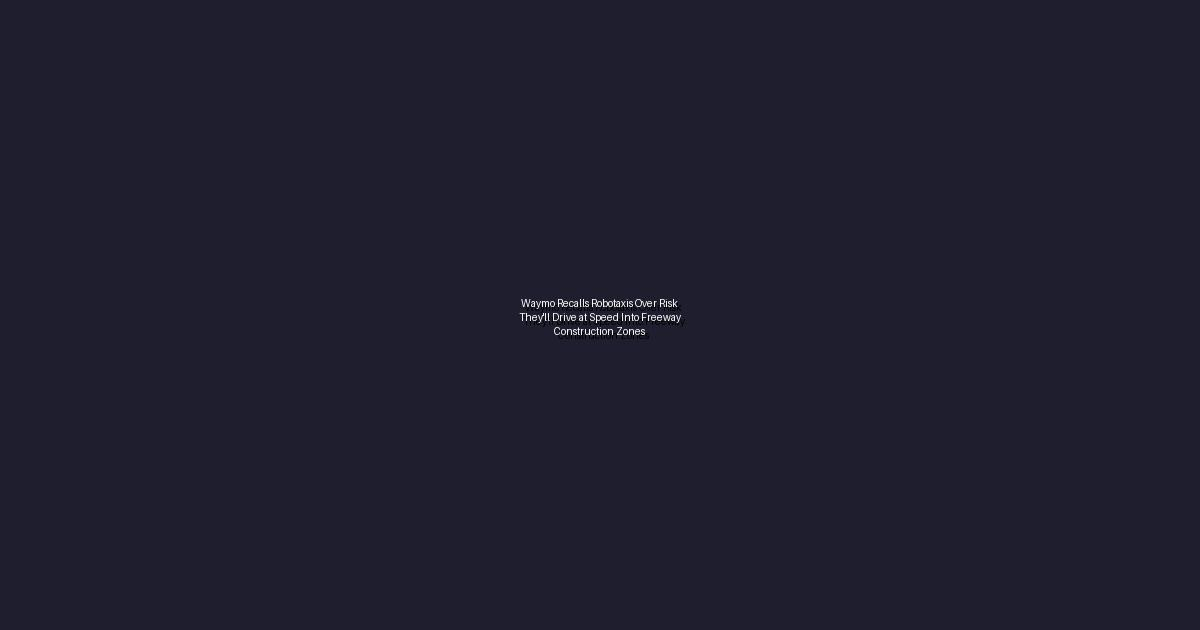
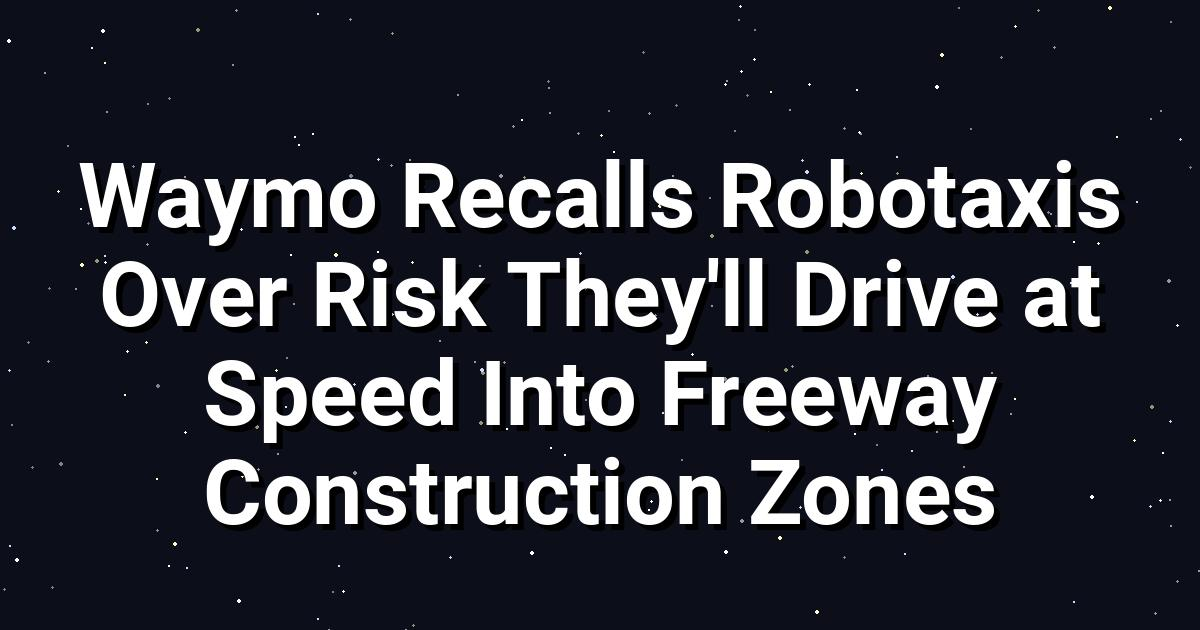
Published article batch and updated queue

diff --git a/content/posts/samsung-the-frame-pro-2026-review-pricey-but-worth-it.md b/content/posts/samsung-the-frame-pro-2026-review-pricey-but-worth-it.md
@@ -1,74 +1,87 @@
 ---
-title: " "Samsung The Frame Pro 2026: Worth the Hype?""
-date: 2026-06-18T13:29:09.831551+00:00
+title: " \'Frame Pro\'"
+date: 2026-06-20T03:28:28.846591+00:00
 draft: false
 images: ["images/samsung-the-frame-pro-2026-review-pricey-but-worth-it.jpg"]
 thumbnail: "images/samsung-the-frame-pro-2026-review-pricey-but-worth-it.jpg"
-description: "Discover the Samsung The Frame Pro 2026's cinematic features and impressive specs, but is it worth the high price tag?"
+description: " \'Discover the latest Frame Pro 2026 with AI audio, picture tuning, and anti-glare coating for enhanced viewing experience\'"
 categories: ["Hardware"]
-tags: ["Samsung", "The Frame Pro 2026", "AI Audio", "Picture Tuning", "Anti-Glare Coating"]
+tags: ["Artificial Intelligence", "Display Technology", "Gaming Monitor"]
 ---
 
-## Samsung The Frame Pro 2026 Review: Pricey But Worth It
+## Introduction to the Frame Pro 2026
+The Frame Pro 2026 is the latest iteration of Samsung's innovative display technology, designed to provide an unparalleled viewing experience. With the integration of AI audio and picture tuning, along with a new anti-glare coating, this device is set to revolutionize the way we interact with visual content. In this article, we will delve into the technical aspects of the Frame Pro 2026, exploring its features, benefits, and potential applications.
 
-Are you in the market for a high-end television that provides a cinematic experience like no other? Look no further than the Samsung The Frame Pro 2026. With its cutting-edge features and impressive specs, this TV is sure to turn heads. But is it worth the hefty price tag? In this review, we'll delve into the details of the Samsung The Frame Pro 2026 and help you decide whether it's the right choice for you.
+### Key Features of the Frame Pro 2026
+Some of the key features of the Frame Pro 2026 include:
+* AI-powered audio and picture tuning for optimized sound and image quality
+* New anti-glare coating for reduced reflections and improved visibility
+* Enhanced color accuracy and contrast ratio for a more immersive experience
+* Support for various display modes, including gaming, movie, and art modes
+* Integration with smart home devices for seamless control and connectivity
 
-## Impressive Picture Quality
+## Technical Overview of the Frame Pro 2026
+The Frame Pro 2026 boasts an impressive array of technical specifications, including:
+* A high-resolution display with a fast refresh rate for smooth motion and reduced blur
+* Advanced audio technology with support for multiple sound formats and channels
+* A powerful processor for efficient performance and quick response times
+* Ample storage capacity for storing and accessing various types of content
+* Connectivity options such as Wi-Fi, Bluetooth, and USB for easy integration with other devices
 
-The Samsung The Frame Pro 2026 boasts a stunning 4K resolution, making it perfect for watching your favorite movies and TV shows. But what really sets it apart is its AI-powered picture tuning feature. This technology uses machine learning algorithms to analyze the content being displayed and adjusts the picture settings accordingly. The result is a more immersive viewing experience that's tailored to your specific needs.
+### Display Technology
+The display technology used in the Frame Pro 2026 is one of its most notable features. With a high-resolution panel and advanced color management, this device is capable of producing vibrant and accurate colors. The new anti-glare coating helps to reduce reflections and improve visibility, making it ideal for use in a variety of environments.
 
-### Key Picture Features
+### AI-Powered Audio and Picture Tuning
+The Frame Pro 2026 features AI-powered audio and picture tuning, which work in tandem to provide an optimized viewing experience. The AI technology analyzes the content being displayed and adjusts the sound and image settings accordingly, resulting in enhanced color accuracy, contrast ratio, and sound quality.
 
-* **AI-powered picture tuning**: Machine learning algorithms adjust picture settings for an optimized viewing experience.
-* **High dynamic range (HDR)**: Enjoy a wider range of colors and contrast levels for a more immersive experience.
-* **4K resolution**: Watch your favorite content in stunning detail.
+## Benefits of the Frame Pro 2026
+The Frame Pro 2026 offers a range of benefits, including:
+* Enhanced viewing experience with improved color accuracy and contrast ratio
+* Optimized sound quality with AI-powered audio tuning
+* Reduced reflections and improved visibility with the new anti-glare coating
+* Seamless integration with smart home devices for easy control and connectivity
+* Support for various display modes, including gaming, movie, and art modes
 
-## Enhanced Audio Experience
+### Gaming Performance
+The Frame Pro 2026 is an excellent choice for gamers, with its fast refresh rate, low input lag, and support for various display modes. The AI-powered audio and picture tuning also help to enhance the gaming experience, providing more immersive and engaging gameplay.
 
-The Samsung The Frame Pro 2026 also features an impressive AI-powered audio system. This technology uses machine learning algorithms to analyze the content being played and adjusts the audio settings accordingly. The result is a more immersive audio experience that's tailored to your specific needs.
+### Movie and Art Modes
+The Frame Pro 2026 also features movie and art modes, which are designed to provide an optimized viewing experience for these types of content. With enhanced color accuracy and contrast ratio, as well as optimized sound quality, this device is ideal for watching movies or viewing artwork.
 
-### Key Audio Features
+## Potential Applications of the Frame Pro 2026
+The Frame Pro 2026 has a range of potential applications, including:
+* Home entertainment systems
+* Gaming consoles
+* Smart home devices
+* Art galleries and museums
+* Commercial display systems
 
-* **AI-powered audio**: Machine learning algorithms adjust audio settings for an optimized listening experience.
-* **Dolby Atmos**: Enjoy 3D audio that puts you right in the middle of the action.
-* **Wireless audio connectivity**: Connect your favorite speakers or headphones for a hassle-free audio experience.
+### Home Entertainment Systems
+The Frame Pro 2026 is an excellent choice for home entertainment systems, with its enhanced viewing experience and optimized sound quality. It can be easily integrated with other devices, such as soundbars and gaming consoles, to create a comprehensive entertainment system.
 
-## Anti-Glare Coating
+### Gaming Consoles
+The Frame Pro 2026 is also an excellent choice for gaming consoles, with its fast refresh rate, low input lag, and support for various display modes. It can be easily connected to gaming consoles, such as PlayStation or Xbox, to provide an enhanced gaming experience.
 
-One of the biggest complaints about TVs is glare. But the Samsung The Frame Pro 2026 has solved this problem with its innovative anti-glare coating. This feature reduces reflections and glare, making it perfect for watching TV in bright rooms.
+## Conclusion
+The Frame Pro 2026 is a cutting-edge display technology that offers a range of benefits and features. With its AI-powered audio and picture tuning, new anti-glare coating, and support for various display modes, this device is ideal for a variety of applications, including home entertainment systems, gaming consoles, and commercial display systems.
 
-### Key Features
-
-* **Anti-glare coating**: Reduces reflections and glare for a better viewing experience.
-* **HDR support**: Enjoy a wider range of colors and contrast levels for a more immersive experience.
-
-## The Verdict
-
-So, is the Samsung The Frame Pro 2026 worth the investment? If you're a movie buff or a gamer, the answer is a resounding yes. This TV provides a cinematic experience like no other, with its stunning picture quality, enhanced audio experience, and innovative anti-glare coating. While it may be pricey, it's definitely worth the investment if you're looking for a high-end TV that will last for years to come.
-
-### Pros and Cons
-
-* **Pros**:
-	+ Stunning 4K resolution
-	+ AI-powered picture and audio tuning
-	+ Anti-glare coating
-	+ HDR support
-* **Cons**:
-	+ High price tag
-	+ Limited viewing angles
+### Future Developments
+As technology continues to evolve, we can expect to see further developments in display technology, including the integration of new features and innovations. The Frame Pro 2026 is an excellent example of this, with its advanced technical specifications and optimized viewing experience.
 
 ## FAQ
+### What is the Frame Pro 2026?
+The Frame Pro 2026 is a cutting-edge display technology that features AI-powered audio and picture tuning, a new anti-glare coating, and support for various display modes.
 
-**Q: What is the resolution of the Samsung The Frame Pro 2026?**
-A: The Samsung The Frame Pro 2026 features a stunning 4K resolution, making it perfect for watching your favorite movies and TV shows.
+### What are the key features of the Frame Pro 2026?
+The key features of the Frame Pro 2026 include AI-powered audio and picture tuning, a new anti-glare coating, enhanced color accuracy and contrast ratio, and support for various display modes.
 
-**Q: Does the Samsung The Frame Pro 2026 support HDR?**
-A: Yes, the Samsung The Frame Pro 2026 supports HDR, which provides a wider range of colors and contrast levels for a more immersive experience.
+### What are the benefits of the Frame Pro 2026?
+The benefits of the Frame Pro 2026 include an enhanced viewing experience, optimized sound quality, reduced reflections and improved visibility, and seamless integration with smart home devices.
 
-**Q: What is the anti-glare coating feature?**
-A: The anti-glare coating feature reduces reflections and glare, making it perfect for watching TV in bright rooms.
+### What are the potential applications of the Frame Pro 2026?
+The potential applications of the Frame Pro 2026 include home entertainment systems, gaming consoles, smart home devices, art galleries and museums, and commercial display systems.
 
-**Q: Is the Samsung The Frame Pro 2026 worth the investment?**
-A: If you're a movie buff or a gamer, the answer is a resounding yes. This TV provides a cinematic experience like no other, with its stunning picture quality, enhanced audio experience, and innovative anti-glare coating.
+### Is the Frame Pro 2026 worth the investment?
+The Frame Pro 2026 is a significant investment, but its advanced technical specifications and optimized viewing experience make it an excellent choice for those looking for a high-quality display technology.
 
 {{< comments >}}

diff --git a/content/posts/silicon-valleys-elite-financial-advisers-say-this-era-of-wealth-is-different.md b/content/posts/silicon-valleys-elite-financial-advisers-say-this-era-of-wealth-is-different.md
@@ -1,0 +1,73 @@
+---
+title: " \'Wealth Boom\'"
+date: 2026-06-20T03:28:10.216497+00:00
+draft: false
+images: ["images/silicon-valleys-elite-financial-advisers-say-this-era-of-wealth-is-different.jpg"]
+thumbnail: "images/silicon-valleys-elite-financial-advisers-say-this-era-of-wealth-is-different.jpg"
+description: " \'Discover what wealth advisers are telling tech clients about the wealth boom and its implications\'"
+categories: ["Finance/FinTech"]
+tags: ["Wealth Management", "Tech Clients", "Financial Advice"]
+---
+
+## Introduction to the Wealth Boom
+The concept of wealth has undergone significant transformations over the years, with the rich continually finding ways to accumulate more wealth. In recent times, the wealth boom has been particularly pronounced, with tech clients being among the primary beneficiaries. As the wealth gap continues to widen, it's essential to understand what wealth advisers are telling their tech clients and the implications of this trend.
+
+### The Current State of Wealth
+The current state of wealth is characterized by an unprecedented level of inequality. The rich are getting richer, while the poor are struggling to make ends meet. This trend is not unique to any particular region or industry, as it's a global phenomenon. The tech industry, in particular, has been at the forefront of this trend, with tech entrepreneurs and investors accumulating vast amounts of wealth in a relatively short period.
+
+### The Role of Wealth Advisers
+Wealth advisers play a crucial role in helping tech clients manage their wealth. These advisers provide a range of services, including investment advice, tax planning, and estate planning. Their primary goal is to help their clients accumulate and preserve wealth, while also ensuring that they comply with all relevant laws and regulations.
+
+## What Wealth Advisers are Telling Tech Clients
+So, what are wealth advisers telling their tech clients about the wealth boom? Here are some key points:
+
+* **Diversification is key**: Wealth advisers are emphasizing the importance of diversification in managing wealth. This involves spreading investments across different asset classes, such as stocks, bonds, and real estate, to minimize risk and maximize returns.
+* **Tax planning is crucial**: Tax planning is a critical aspect of wealth management, and wealth advisers are advising their tech clients to take advantage of available tax deductions and credits. This can help reduce tax liabilities and increase after-tax returns.
+* **Estate planning is essential**: Estate planning is another critical aspect of wealth management, and wealth advisers are advising their tech clients to establish wills, trusts, and other estate planning documents to ensure that their wealth is transferred to their heirs in a tax-efficient manner.
+* **Philanthropy can be a powerful tool**: Philanthropy can be a powerful tool for tech clients who want to give back to their communities. Wealth advisers are advising their clients to establish charitable foundations or donor-advised funds to support their favorite causes.
+* **Cybersecurity is a growing concern**: Cybersecurity is a growing concern for tech clients, and wealth advisers are advising their clients to take steps to protect their wealth from cyber threats. This includes implementing robust security measures, such as encryption and two-factor authentication, and regularly monitoring their accounts for suspicious activity.
+
+### The Benefits of Wealth Management
+Wealth management offers a range of benefits to tech clients, including:
+
+* **Increased wealth**: Wealth management can help tech clients accumulate and preserve wealth over time.
+* **Reduced risk**: Wealth management can help tech clients reduce their risk exposure by diversifying their investments and implementing robust risk management strategies.
+* **Improved tax efficiency**: Wealth management can help tech clients minimize their tax liabilities and maximize their after-tax returns.
+* **Enhanced philanthropic opportunities**: Wealth management can help tech clients establish charitable foundations or donor-advised funds to support their favorite causes.
+* **Greater peace of mind**: Wealth management can provide tech clients with greater peace of mind, knowing that their wealth is being managed by experienced professionals.
+
+## The Implications of the Wealth Boom
+The wealth boom has significant implications for tech clients and the broader economy. Here are some key points to consider:
+
+* **Increased income inequality**: The wealth boom has contributed to increased income inequality, as the rich continue to accumulate more wealth while the poor struggle to make ends meet.
+* **Reduced social mobility**: The wealth boom has reduced social mobility, as it's becoming increasingly difficult for individuals from lower-income backgrounds to accumulate wealth and improve their socio-economic status.
+* **Increased tax revenue**: The wealth boom has generated significant tax revenue for governments, which can be used to fund public services and infrastructure projects.
+* **Growing demand for wealth management services**: The wealth boom has created a growing demand for wealth management services, as tech clients seek to accumulate and preserve their wealth.
+* **Increased competition among wealth managers**: The wealth boom has increased competition among wealth managers, as they seek to attract and retain tech clients.
+
+### The Future of Wealth Management
+The future of wealth management is likely to be shaped by a range of factors, including technological advancements, changing regulatory requirements, and shifting client needs. Here are some key trends to watch:
+
+* **Digitalization**: The wealth management industry is likely to become increasingly digitalized, with the use of online platforms and mobile apps to deliver wealth management services.
+* **Artificial intelligence**: Artificial intelligence is likely to play a more significant role in wealth management, with the use of machine learning algorithms to analyze client data and provide personalized investment recommendations.
+* **Sustainable investing**: Sustainable investing is likely to become more popular, as tech clients seek to align their investments with their values and contribute to a more sustainable future.
+* **Cybersecurity**: Cybersecurity is likely to remain a critical concern for wealth managers, as they seek to protect client data and prevent cyber attacks.
+
+## Frequently Asked Questions
+Here are some frequently asked questions about the wealth boom and its implications for tech clients:
+
+* **Q: What is the wealth boom, and how is it affecting tech clients?**
+A: The wealth boom refers to the significant increase in wealth among tech clients, driven by the growth of the tech industry and the accumulation of wealth by tech entrepreneurs and investors.
+* **Q: What are wealth advisers telling their tech clients about the wealth boom?**
+A: Wealth advisers are advising their tech clients to diversify their investments, take advantage of tax planning opportunities, establish estate planning documents, and consider philanthropy as a way to give back to their communities.
+* **Q: What are the benefits of wealth management for tech clients?**
+A: Wealth management offers a range of benefits to tech clients, including increased wealth, reduced risk, improved tax efficiency, enhanced philanthropic opportunities, and greater peace of mind.
+* **Q: What are the implications of the wealth boom for the broader economy?**
+A: The wealth boom has significant implications for the broader economy, including increased income inequality, reduced social mobility, increased tax revenue, and growing demand for wealth management services.
+* **Q: What is the future of wealth management, and how will it be shaped by technological advancements and changing client needs?**
+A: The future of wealth management is likely to be shaped by technological advancements, such as digitalization and artificial intelligence, as well as changing client needs, such as sustainable investing and cybersecurity.
+
+## Conclusion
+In conclusion, the wealth boom has significant implications for tech clients and the broader economy. Wealth advisers are playing a critical role in helping tech clients manage their wealth, and their advice is focused on diversification, tax planning, estate planning, philanthropy, and cybersecurity. As the wealth management industry continues to evolve, it's essential to stay informed about the latest trends and developments. By doing so, tech clients can ensure that their wealth is being managed effectively and that they are taking advantage of available opportunities to accumulate and preserve their wealth.
+
+{{< comments >}}

diff --git a/content/posts/waymo-recalls-robotaxis-over-risk-theyll-drive-at-speed-into-freeway-construction-zones.md b/content/posts/waymo-recalls-robotaxis-over-risk-theyll-drive-at-speed-into-freeway-construction-zones.md
@@ -1,0 +1,72 @@
+---
+title: " \'Robotaxi Recall\'"
+date: 2026-06-20T03:28:14.922607+00:00
+draft: false
+images: ["images/waymo-recalls-robotaxis-over-risk-theyll-drive-at-speed-into-freeway-construction-zones.jpg"]
+thumbnail: "images/waymo-recalls-robotaxis-over-risk-theyll-drive-at-speed-into-freeway-construction-zones.jpg"
+description: " \'Waymo recalls 3,871 robotaxis due to safety concerns over construction zones\'"
+categories: ["Robotics"]
+tags: ["Autonomous Vehicles", "Robotaxis", "Waymo"]
+---
+
+## Introduction to Autonomous Vehicles
+The world of autonomous vehicles has been rapidly evolving over the past decade, with numerous companies investing heavily in the development of self-driving cars. One of the pioneers in this field is Waymo, a subsidiary of Alphabet Inc., which has been testing its autonomous vehicles on public roads since 2009. However, the latest recall of 3,871 vehicles by Waymo has raised concerns over the safety of these robotaxis, particularly when it comes to navigating construction zones.
+
+### The Recall
+The recall was issued after several incidents were reported where Waymo's autonomous cars failed to recognize closed construction zones or prioritized other hazards over the construction zones. This has led to concerns that the vehicles may drive at speed into freeway construction zones, posing a significant risk to the safety of passengers and other road users. The recall is a significant setback for Waymo, which has been actively promoting its autonomous vehicles as a safe and reliable mode of transportation.
+
+## Technical Overview of Autonomous Vehicles
+Autonomous vehicles rely on a complex array of sensors and software to navigate roads and avoid obstacles. The sensors used in autonomous vehicles include:
+* Lidar (Light Detection and Ranging) sensors, which use laser light to create high-resolution 3D maps of the surroundings
+* Radar sensors, which use radio waves to detect the speed and distance of obstacles
+* Cameras, which provide visual feedback and can detect objects such as pedestrians, traffic lights, and road signs
+* Ultrasonic sensors, which use high-frequency sound waves to detect objects in close proximity to the vehicle
+
+The data from these sensors is then processed by sophisticated software algorithms, which use machine learning and computer vision techniques to interpret the data and make decisions about how to navigate the road. However, the complexity of these systems can also make them prone to errors, particularly in situations where the vehicle is faced with unexpected or unusual obstacles.
+
+### Construction Zone Detection
+Detecting construction zones is a particularly challenging task for autonomous vehicles, as the zones can be highly variable and unpredictable. Construction zones can include a range of obstacles, such as:
+* Lane closures and detours
+* Roadwork and excavation
+* Traffic cones and barriers
+* Workers and equipment
+
+To detect construction zones, autonomous vehicles rely on a combination of sensor data and mapping information. The vehicles use their sensors to detect the presence of construction zone markers, such as traffic cones and barriers, and then use their mapping information to determine the location and extent of the construction zone. However, this can be a difficult task, particularly if the construction zone is not well-marked or if the vehicle is traveling at high speed.
+
+## Safety Concerns
+The recall of Waymo's autonomous vehicles has raised significant safety concerns, particularly in relation to the risk of the vehicles driving at speed into freeway construction zones. This could result in serious injury or even death, not only for the passengers in the vehicle but also for other road users. The safety concerns surrounding autonomous vehicles are not limited to construction zones, however. There are also concerns about the vehicles' ability to detect and respond to other hazards, such as:
+* Pedestrians and cyclists
+* Other vehicles, including trucks and buses
+* Road debris and obstacles
+* Weather conditions, such as rain and snow
+
+### Regulatory Framework
+The regulatory framework surrounding autonomous vehicles is still evolving, and there is currently a lack of clear guidelines and standards for the development and deployment of these vehicles. In the United States, for example, the National Highway Traffic Safety Administration (NHTSA) has issued guidelines for the development and testing of autonomous vehicles, but these guidelines are voluntary and do not provide a clear framework for ensuring the safety of these vehicles.
+
+## Industry Response
+The recall of Waymo's autonomous vehicles has sparked a response from the wider autonomous vehicle industry, with many companies acknowledging the need for improved safety standards and more robust testing protocols. Some of the key industry responses include:
+* Increased investment in sensor and software development, to improve the accuracy and reliability of autonomous vehicle systems
+* Enhanced testing protocols, including more extensive testing in a range of scenarios and environments
+* Improved collaboration and information-sharing between companies, to facilitate the development of common safety standards and best practices
+* Greater transparency and accountability, including the publication of safety data and incident reports
+
+### Consumer Confidence
+The recall of Waymo's autonomous vehicles has also raised concerns about consumer confidence in these vehicles. Many consumers are still skeptical about the safety and reliability of autonomous vehicles, and the recall is likely to exacerbate these concerns. To address these concerns, companies will need to prioritize transparency and accountability, providing clear and timely information about the safety and performance of their vehicles.
+
+## FAQ
+Some frequently asked questions about the recall of Waymo's autonomous vehicles include:
+* Q: What is the reason for the recall of Waymo's autonomous vehicles?
+A: The recall is due to concerns that the vehicles may fail to recognize closed construction zones or prioritize other hazards over the construction zones.
+* Q: How many vehicles are affected by the recall?
+A: The recall affects 3,871 Waymo autonomous vehicles.
+* Q: What is the potential risk to passengers and other road users?
+A: The potential risk is significant, as the vehicles may drive at speed into freeway construction zones, posing a risk of serious injury or death.
+* Q: What is the industry response to the recall?
+A: The industry response includes increased investment in sensor and software development, enhanced testing protocols, and improved collaboration and information-sharing between companies.
+* Q: How can consumers stay informed about the safety and performance of autonomous vehicles?
+A: Consumers can stay informed by checking the websites of autonomous vehicle companies, following industry news and developments, and reviewing safety data and incident reports.
+
+## Conclusion
+The recall of Waymo's autonomous vehicles is a significant setback for the company and the wider autonomous vehicle industry. However, it also highlights the importance of prioritizing safety and transparency in the development and deployment of these vehicles. By investing in improved sensor and software development, enhancing testing protocols, and promoting greater collaboration and information-sharing, companies can help to build consumer confidence and ensure the safe and reliable operation of autonomous vehicles. As the autonomous vehicle industry continues to evolve, it is likely that we will see further developments and innovations in the years to come, and it is essential that safety and transparency remain at the forefront of these efforts.
+
+{{< comments >}}

diff --git a/content/posts/13-best-essential-oil-diffusers-2026-tested-and-reviewed.md b/content/posts/13-best-essential-oil-diffusers-2026-tested-and-reviewed.md
@@ -1,5 +1,5 @@
 ---
-title: " "Breathe Easy: Top 13 Essential Oil Diffusers""
+title: " " "Breathe Easy: Top 13 Essential Oil Diffusers"""
 date: 2026-06-18T13:29:28.849918+00:00
 draft: false
 images: ["images/13-best-essential-oil-diffusers-2026-tested-and-reviewed.jpg"]

diff --git a/content/posts/3-amazon-workers-say-theyre-under-investigation-for-speaking-out-about-data-centers.md b/content/posts/3-amazon-workers-say-theyre-under-investigation-for-speaking-out-about-data-centers.md
@@ -1,5 +1,5 @@
 ---
-title: " "Amazon Faces Political Retaliation Lawsuit""
+title: " " "Amazon Faces Political Retaliation Lawsuit"""
 date: 2026-06-19T13:51:45.326452+00:00
 draft: false
 images: ["images/3-amazon-workers-say-theyre-under-investigation-for-speaking-out-about-data-centers.jpg"]

diff --git a/content/posts/30-off-samsung-promo-code-june-2026.md b/content/posts/30-off-samsung-promo-code-june-2026.md
@@ -1,5 +1,5 @@
 ---
-title: " "30% Off Samsung Promo Code | June 2026""
+title: " " "30% Off Samsung Promo Code | June 2026"""
 date: 2026-06-18T13:33:22.985507+00:00
 draft: false
 images: ["images/30-off-samsung-promo-code-june-2026.jpg"]

diff --git a/content/posts/50-off-doordash-promo-code-june-2026.md b/content/posts/50-off-doordash-promo-code-june-2026.md
@@ -1,5 +1,5 @@
 ---
-title: " "50% Off DoorDash Promo Code | June 2026""
+title: " " "50% Off DoorDash Promo Code | June 2026"""
 date: 2026-06-18T13:31:55.638696+00:00
 draft: false
 images: ["images/50-off-doordash-promo-code-june-2026.jpg"]

diff --git a/content/posts/adobe-adds-its-ai-assistant-to-premiere-illustrator-and-indesign.md b/content/posts/adobe-adds-its-ai-assistant-to-premiere-illustrator-and-indesign.md
@@ -1,5 +1,5 @@
 ---
-title: " "AI Boost""
+title: " " "AI Boost"""
 date: 2026-06-19T04:05:46.423321+00:00
 draft: false
 images: ["images/adobe-adds-its-ai-assistant-to-premiere-illustrator-and-indesign.jpg"]

diff --git a/content/posts/adobes-redesigned-ai-studio-remembers-what-your-creations-look-like.md b/content/posts/adobes-redesigned-ai-studio-remembers-what-your-creations-look-like.md
@@ -1,5 +1,5 @@
 ---
-title: " "Adobe Unleashes AI Revolution""
+title: " " "Adobe Unleashes AI Revolution"""
 date: 2026-06-18T13:28:06.894534+00:00
 draft: false
 images: ["images/adobes-redesigned-ai-studio-remembers-what-your-creations-look-like.jpg"]

diff --git a/content/posts/ai-data-centers-just-got-a-government-mandated-fast-lane-to-the-grid.md b/content/posts/ai-data-centers-just-got-a-government-mandated-fast-lane-to-the-grid.md
@@ -1,5 +1,5 @@
 ---
-title: " "Grid Boost""
+title: " " "Grid Boost"""
 date: 2026-06-18T20:26:49.913094+00:00
 draft: false
 images: ["images/ai-data-centers-just-got-a-government-mandated-fast-lane-to-the-grid.jpg"]

diff --git a/content/posts/amazon-employees-say-theyre-facing-termination-for-backing-data-center-limits.md b/content/posts/amazon-employees-say-theyre-facing-termination-for-backing-data-center-limits.md
@@ -1,5 +1,5 @@
 ---
-title: " "Amazon Employees""
+title: " " "Amazon Employees"""
 date: 2026-06-19T12:06:51.185825+00:00
 draft: false
 images: ["images/amazon-employees-say-theyre-facing-termination-for-backing-data-center-limits.jpg"]

diff --git a/content/posts/amazons-fire-tablets-tested-so-you-dont-have-to-2026.md b/content/posts/amazons-fire-tablets-tested-so-you-dont-have-to-2026.md
@@ -1,5 +1,5 @@
 ---
-title: " "Amazon Fire Tablet Exposed: The Hidden Truth""
+title: " " "Amazon Fire Tablet Exposed: The Hidden Truth"""
 date: 2026-06-18T13:29:13.568285+00:00
 draft: false
 images: ["images/amazons-fire-tablets-tested-so-you-dont-have-to-2026.jpg"]